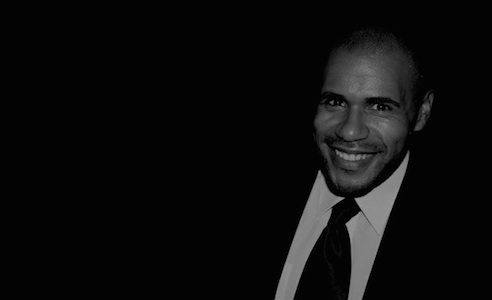
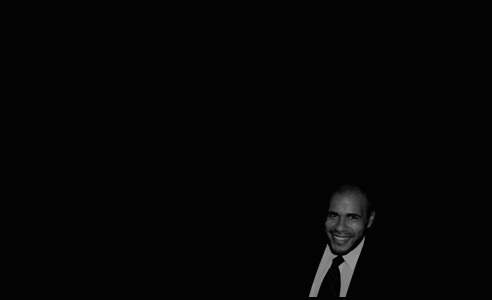
fucking ipad

Changed region(s): [[0.5488, 0.12, 0.8841, 1.0]]

diff --git a/_site/css/creative.css b/_site/css/creative.css
@@ -274,6 +274,23 @@ header .header-content .header-content-inner p {
     color: #FFFFFF;
 }
 
+@media(max-width:586px) {
+    header{
+        background-image: 
+        url(../img/mm_header.jpg);
+        background-position: center;
+        padding-top:20px;
+        -webkit-background-size: cover;
+        -moz-background-size: cover;
+        background-size: cover;
+        -o-background-size: cover
+        
+
+}
+
+}
+
+
 @media(min-width:768px) {
     header {
         min-height: 100%;
@@ -367,6 +384,20 @@ header .header-content .header-content-inner p {
 }
 
 @media(min-width:768px) {
+    .post-header{
+    background-image:url(../img/postheader.png);
+     background-position: center;
+        -webkit-background-size: cover;
+        -moz-background-size: cover;
+        background-size: cover;
+        -o-background-size: cover;
+     position: relative;
+    width: 100%;
+    height: 150px;
+    min-height: auto;
+    text-align: center;
+}
+
     
 
     .post-header .header-content {

diff --git a/css/creative.css b/css/creative.css
@@ -274,6 +274,23 @@ header .header-content .header-content-inner p {
     color: #FFFFFF;
 }
 
+@media(max-width:586px) {
+    header{
+        background-image: 
+        url(../img/mm_header.jpg);
+        background-position: center;
+        padding-top:20px;
+        -webkit-background-size: cover;
+        -moz-background-size: cover;
+        background-size: cover;
+        -o-background-size: cover
+        
+
+}
+
+}
+
+
 @media(min-width:768px) {
     header {
         min-height: 100%;
@@ -367,6 +384,20 @@ header .header-content .header-content-inner p {
 }
 
 @media(min-width:768px) {
+    .post-header{
+    background-image:url(../img/postheader.png);
+     background-position: center;
+        -webkit-background-size: cover;
+        -moz-background-size: cover;
+        background-size: cover;
+        -o-background-size: cover;
+     position: relative;
+    width: 100%;
+    height: 150px;
+    min-height: auto;
+    text-align: center;
+}
+
     
 
     .post-header .header-content {
